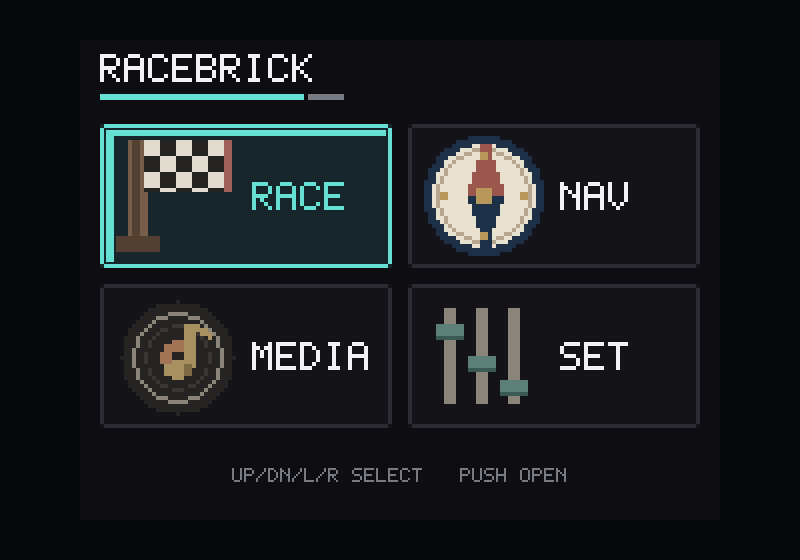
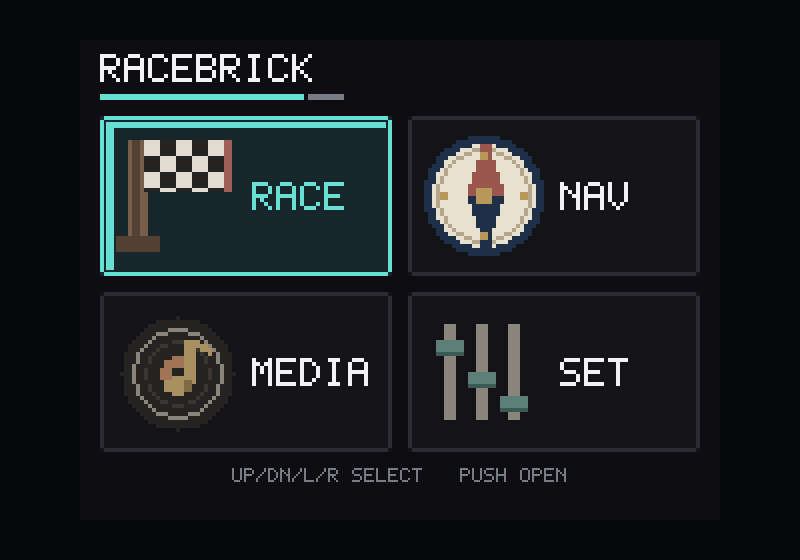
firmware: enlarge main menu cards

diff --git a/firmware/src/screens.c b/firmware/src/screens.c
@@ -128,8 +128,8 @@ static void render_home(void) {
     const int gap = 8;
     const int margin = 10;
     const int w = (CW - margin * 2 - gap) / 2;
-    const int h = 72;
-    const int ys[2] = {42, 122};
+    const int h = 80;
+    const int ys[2] = {38, 126};
     for (int i = 0; i < 4; i++) {
         int col = i & 1, row = i >> 1;
         int x = margin + col * (w + gap);
@@ -140,8 +140,8 @@ static void render_home(void) {
             gfx_fill(x + 3, y + 3, 4, h - 6, PAL.cyan);
             gfx_fill(x + 3, y + 3, w - 6, 3, PAL.cyan);
         }
-        draw_home_logo(x + 6, y + 4, i);
-        gfx_text(x + 76, y + 29, items[i], on ? PAL.cyan : PAL.white, 2);
+        draw_home_logo(x + 6, y + 8, i);
+        gfx_text(x + 76, y + 33, items[i], on ? PAL.cyan : PAL.white, 2);
     }
     gfx_text_center(CW / 2, 214, "UP/DN/L/R SELECT   PUSH OPEN", PAL.dim, 0);
 }
